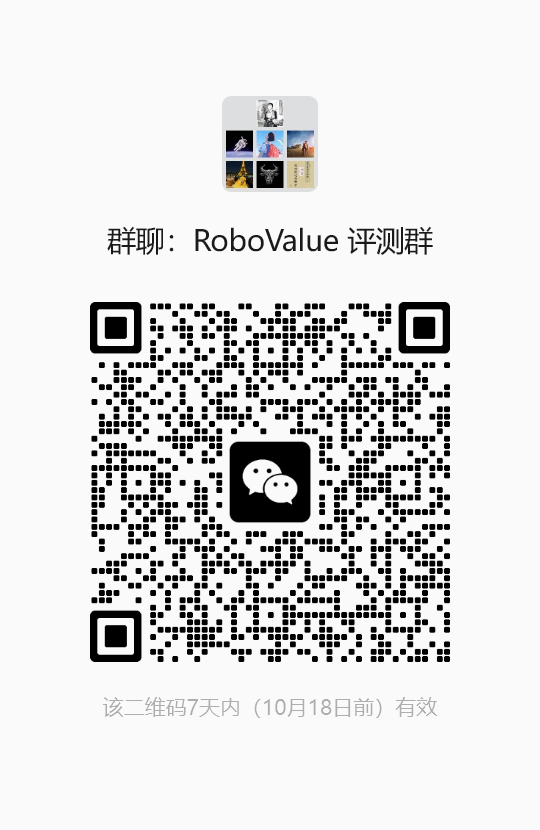
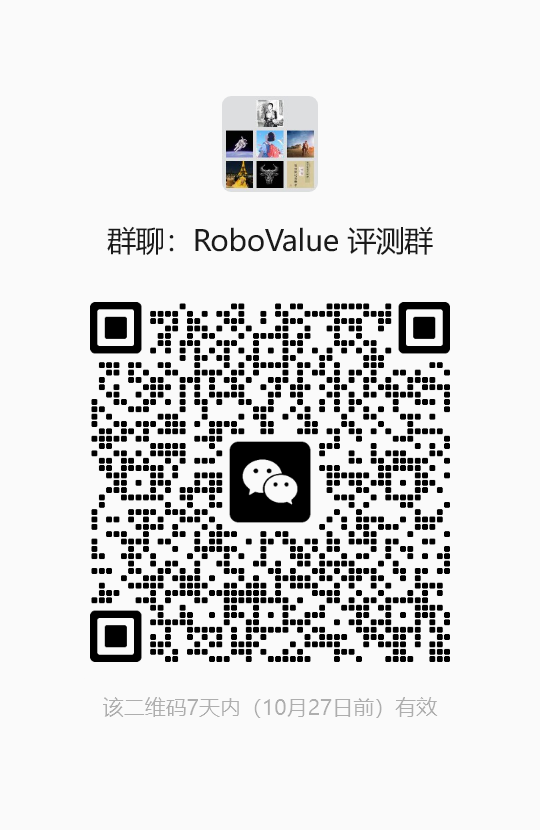
Update WeChat group QR codes for October 20

Changed region(s): [[0.1481, 0.3614, 0.8593, 0.8133], [0.563, 0.8434, 0.6222, 0.8735]]

diff --git a/src/eval.jsx b/src/eval.jsx
@@ -42,8 +42,8 @@ function EvaluationCommunity() {
     </div>
     <section className="eval-channel eval-wechat" aria-labelledby="eval-wechat-heading">
       <h3 id="eval-wechat-heading">WeChat Group</h3>
-      <a className="eval-qr" href="/assets/evaluation-wechat.png" target="_blank" rel="noopener noreferrer" aria-label="Open the evaluation WeChat QR code at full size">
-        <img src="/assets/evaluation-wechat.png" width="540" height="830" alt="RoboValue evaluation WeChat group QR code, valid before October 18" />
+      <a className="eval-qr" href="/assets/evaluation-wechat.png?v=20261020" target="_blank" rel="noopener noreferrer" aria-label="Open the evaluation WeChat QR code at full size">
+        <img src="/assets/evaluation-wechat.png?v=20261020" width="540" height="830" alt="RoboValue evaluation WeChat group QR code, valid before October 27" />
       </a>
       <p>Scan to join</p>
     </section>
@@ -79,8 +79,8 @@ function EvaluationSuccess({ successRef }) {
       </div>
       <div className="eval-success-channels">
         <section className="eval-success-channel" aria-labelledby="eval-success-wechat-heading">
-          <a className="eval-qr" href="/assets/evaluation-wechat.png" target="_blank" rel="noopener noreferrer" aria-label="Open the evaluation WeChat QR code at full size">
-            <img src="/assets/evaluation-wechat.png" width="540" height="830" alt="RoboValue evaluation WeChat group QR code, valid before October 18" />
+          <a className="eval-qr" href="/assets/evaluation-wechat.png?v=20261020" target="_blank" rel="noopener noreferrer" aria-label="Open the evaluation WeChat QR code at full size">
+            <img src="/assets/evaluation-wechat.png?v=20261020" width="540" height="830" alt="RoboValue evaluation WeChat group QR code, valid before October 27" />
           </a>
           <h4 id="eval-success-wechat-heading">WeChat</h4>
           <p>Scan to join</p>

diff --git a/src/community.jsx b/src/community.jsx
@@ -17,8 +17,8 @@ export function CommunityPage() {
         <p>Scan the QR code with WeChat to join the RoboValue discussion group.</p>
       </div>
       <figure className="community-qr-card">
-        <a href="/assets/community-wechat.png" target="_blank" rel="noopener noreferrer" aria-label="Open the RoboValue WeChat QR code at full size">
-          <img src="/assets/community-wechat.png" alt="QR code for the RoboValue WeChat discussion group" width="540" height="830" />
+        <a href="/assets/community-wechat.png?v=20261020" target="_blank" rel="noopener noreferrer" aria-label="Open the RoboValue WeChat QR code at full size">
+          <img src="/assets/community-wechat.png?v=20261020" alt="QR code for the RoboValue WeChat discussion group" width="540" height="830" />
         </a>
         <figcaption>RoboValue WeChat Group</figcaption>
       </figure>
